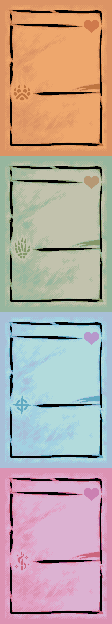
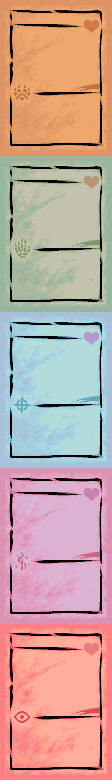
Added insanity

diff --git a/model/costs.py b/model/costs.py
@@ -1,7 +1,6 @@
 from PIL import Image
 from model import config, logging
 
-
 TEMPLES = config["temples"]
 
 
@@ -178,6 +177,50 @@ class Gems:
         return cost_image
 
 
+class Distress:
+
+    def __init__(self, amount: int):
+        self.amount = amount
+
+    def __add__(self, other):
+        if type(other) is not Distress:
+            raise TypeError("Add operation can only be performed on two resources of the same type")
+        return Distress(self.amount + other.amount)
+
+    def __sub__(self, other):
+        if type(other) is not Distress:
+            raise TypeError("Sub operation can only be performed on two resources of the same type")
+        return Distress(self.amount - other.amount)
+
+    def getCostImage(self, temple: str) -> Image:
+        if self.amount > 6:
+            img = Image.open(f"assets/costs/insanity/distress{self.amount}.png").convert("RGBA")
+            return get_temple_variant(img, temple)
+
+        img = Image.open("assets/costs/insanity/distress_bar.png").convert("RGBA")
+        version_img = get_temple_variant(img, temple)
+
+        if self.amount == 1:
+            return version_img
+
+        final_width = self.amount * (version_img.width - 30) + 30
+        final_image = Image.new('RGBA', (final_width, version_img.height))
+
+        x_pos = 0
+        for i in range(self.amount):
+            if i == 0:
+                bar = version_img.copy().crop((0, 0, version_img.width - 20, version_img.height))
+                final_image.paste(bar, (x_pos, 0))
+            elif i == self.amount - 1:
+                bar = version_img.copy().crop((10, 0, version_img.width, version_img.height))
+                final_image.paste(bar, (x_pos, 0))
+            else:
+                bar = version_img.copy().crop((10, 0, version_img.width - 20, version_img.height))
+                final_image.paste(bar, (x_pos, 0))
+            x_pos += bar.width
+        return final_image
+
+
 def get_cost(strcost):
     cost = []
     if strcost is None:
@@ -226,6 +269,11 @@ def get_cost(strcost):
                 else:
                     gems = Gems(c)
                     cost.append(gems)
+
+            # Distress
+            elif "distress" in c:
+                cost.append(Distress(int(c.split(" ")[0])))
+
             # Add custom costs here with other elif
             else:
                 raise KeyError(f"Unknown cost type: {c}")
